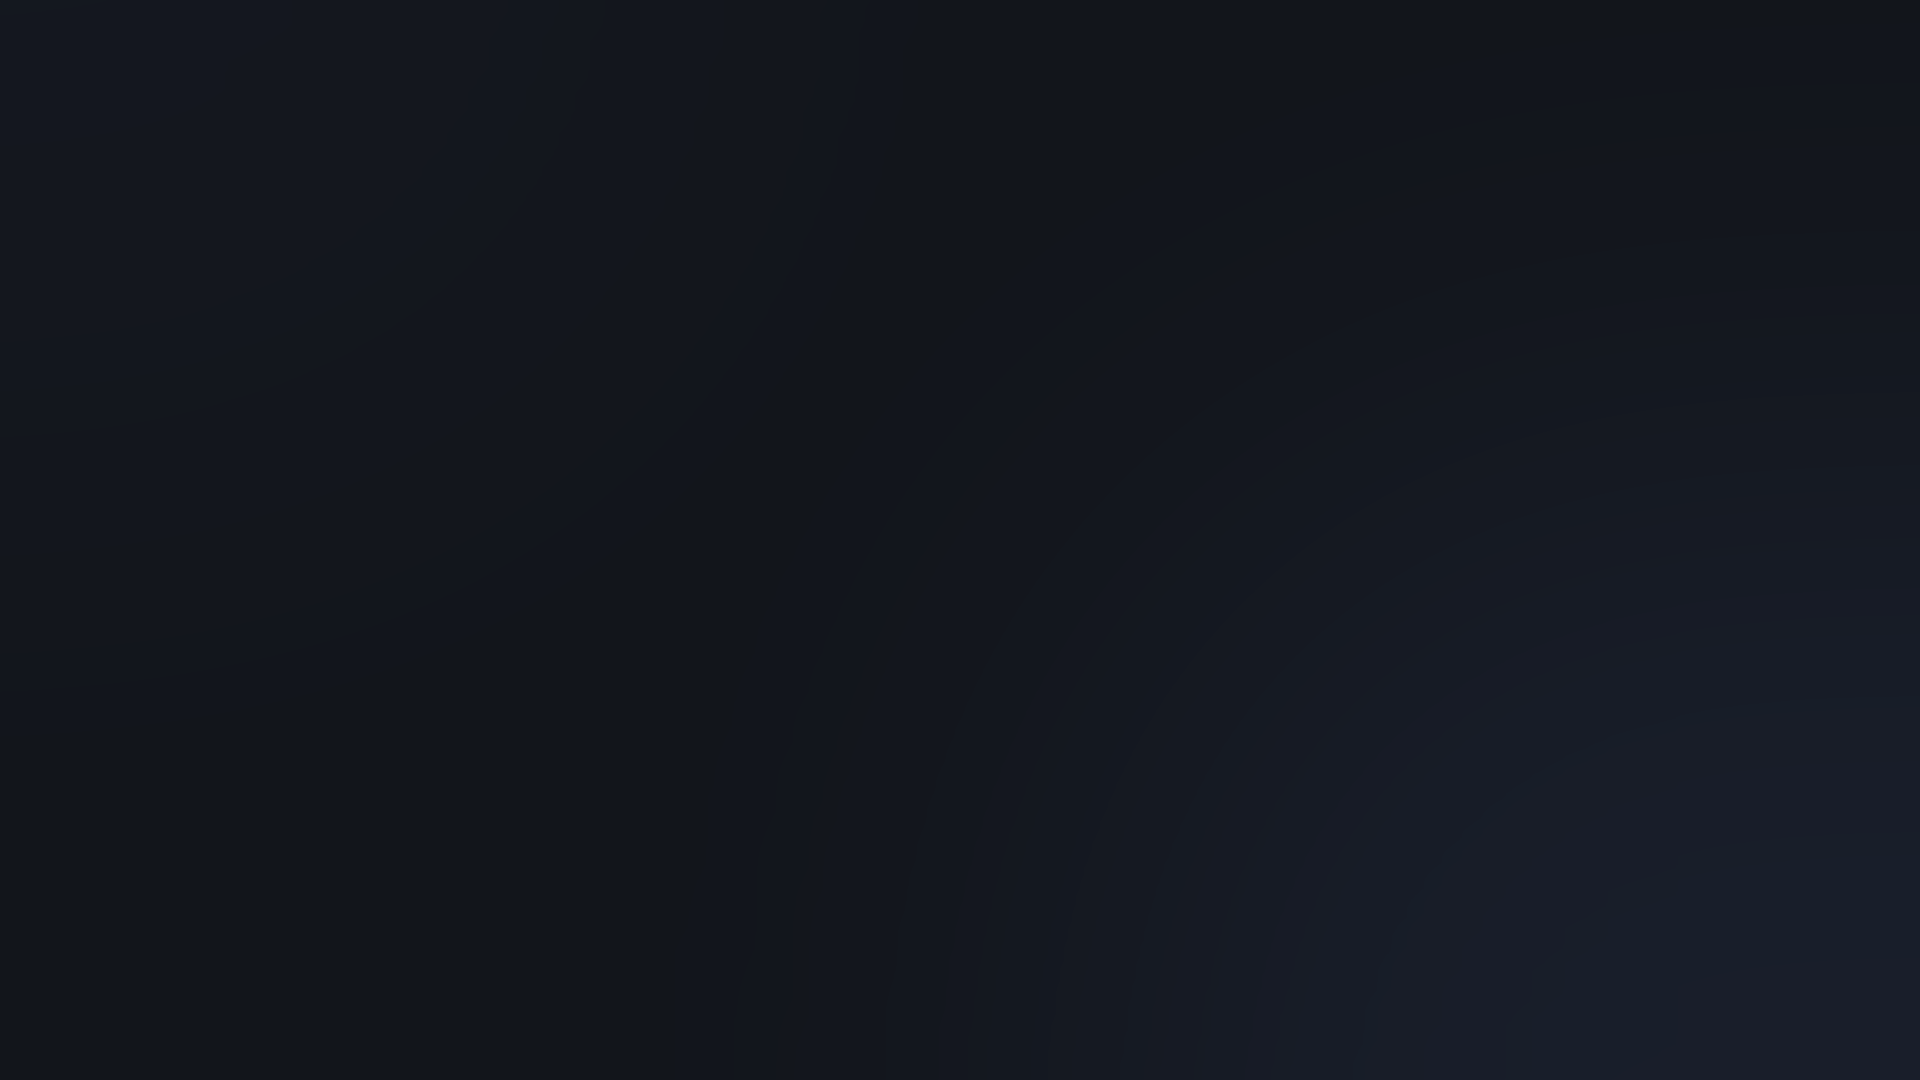
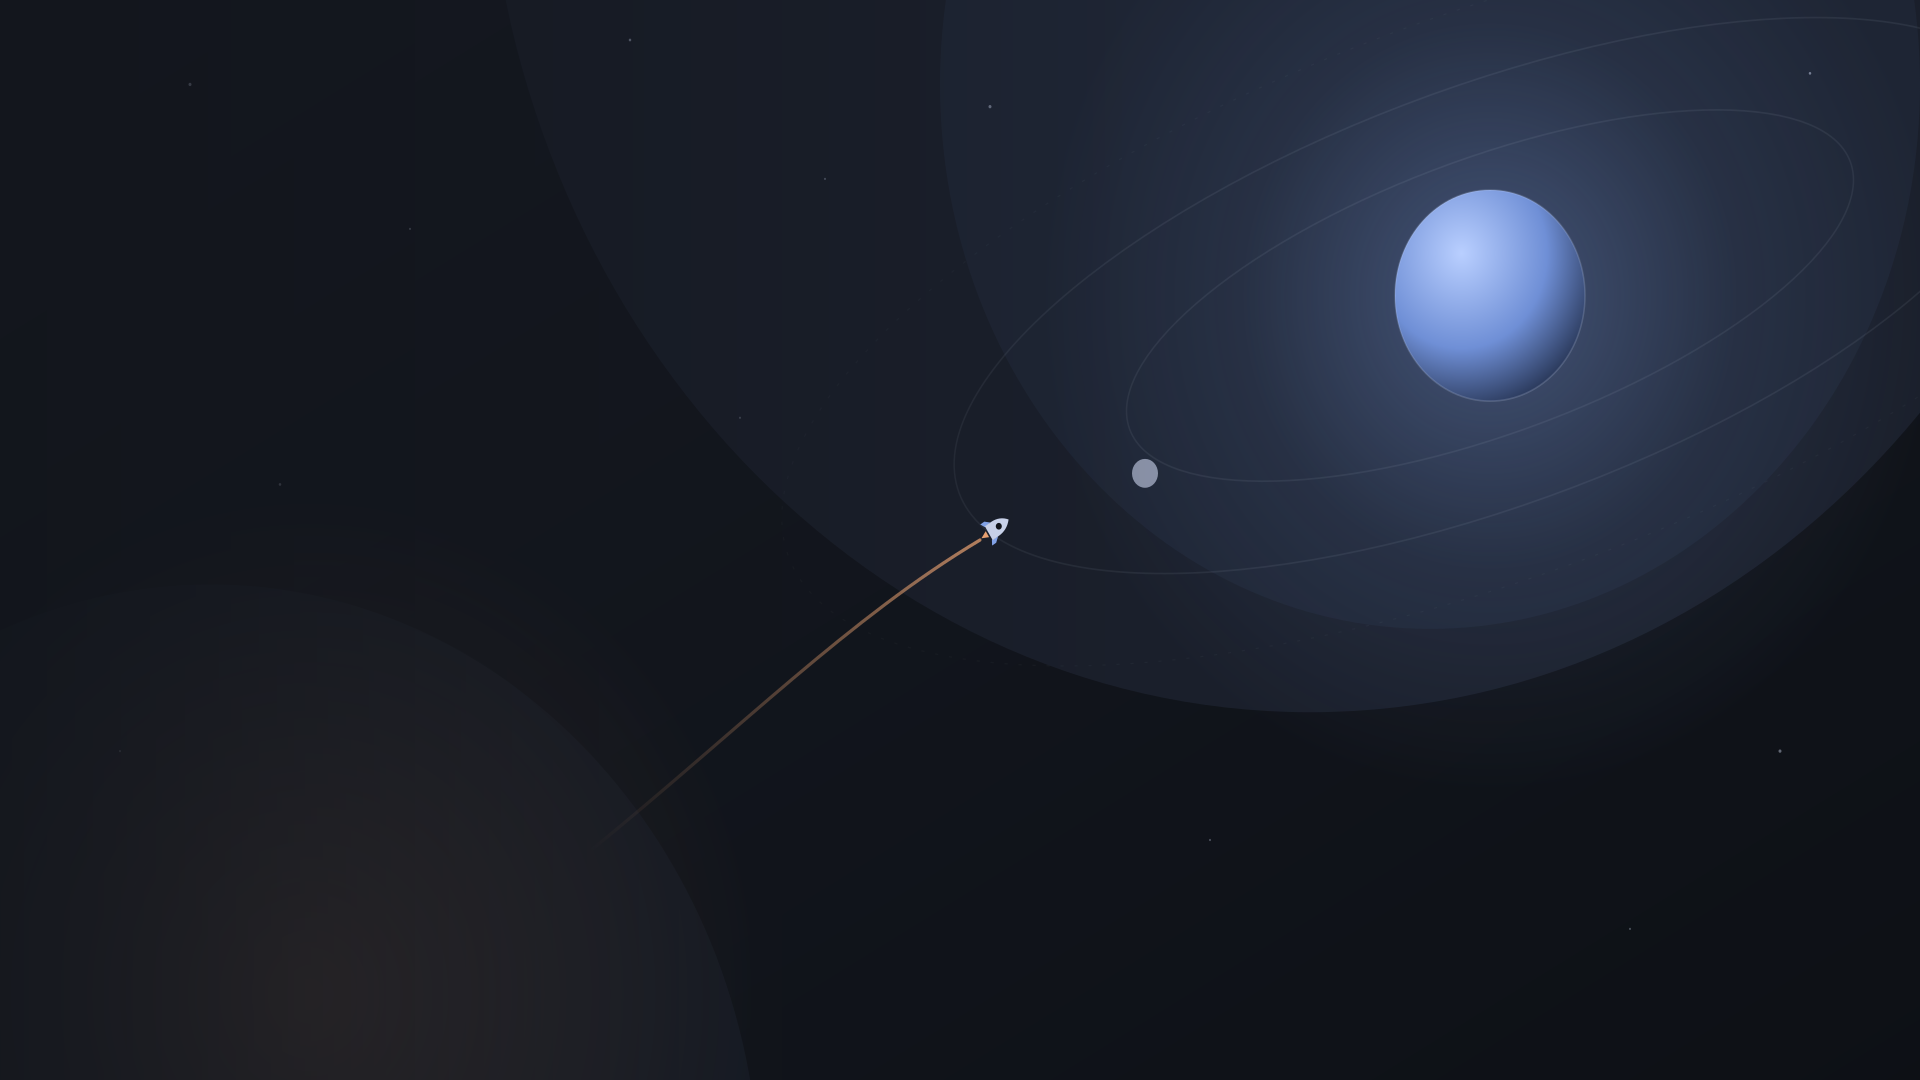
Installer wie der Desktop: Graphit-Hintergrundbild (Planet + Rakete) im Startmenü, hinter Übersicht und Fortschritt; Kacheln als Karten; Symbole sichtbar
Claude-Session: https://claude.ai/code/session_013GT3BPthZZrDzHkvyZsgTs

Changed region(s): [[0.5312, 0.0, 1.0, 0.5806], [0.5, 0.4583, 0.5312, 0.5194], [0.4688, 0.5194, 0.5, 0.55]]

diff --git a/image/netinstall/installer/anaconda-gtk.css b/image/netinstall/installer/anaconda-gtk.css
@@ -157,3 +157,29 @@ infobar.info label, infobar.warning label, infobar.question label, infobar.error
 
 /* Passwort-Stärke */
 levelbar.discrete trough block.filled.high, levelbar.discrete trough block.filled.full { background: #6fdcc0; border-color: #6fdcc0; }
+
+/* ---- Wie der Desktop: Hintergrundbild hinter Übersicht und Fortschritt ---- */
+AnacondaBaseStandalone box.background {
+    background-color: @creative_ground;
+    background-image: linear-gradient(rgba(18, 21, 27, 0.45), rgba(18, 21, 27, 0.45)),
+                      url('/usr/share/anaconda/pixmaps/creative-wallpaper.png');
+    background-size: cover;
+    background-position: center;
+}
+AnacondaBaseStandalone notebook, AnacondaBaseStandalone notebook > stack,
+AnacondaBaseStandalone scrolledwindow, AnacondaBaseStandalone viewport {
+    background-color: transparent;
+    background-image: none;
+    border: none;
+}
+/* Kacheln der Übersicht als Graphit-Karten */
+AnacondaSpokeSelector {
+    background-color: rgba(35, 40, 54, 0.88);
+    border: 1px solid rgba(255, 255, 255, 0.07);
+    border-radius: 12px;
+    padding: 4px;
+}
+AnacondaSpokeSelector:hover { background-color: rgba(48, 55, 74, 0.92); }
+AnacondaSpokeSelector image { color: @creative_accent; }
+#anaconda-spoke-selector-status { color: rgba(220, 230, 255, 0.6); }
+AnacondaBaseStandalone label { text-shadow: 0 1px 2px rgba(0, 0, 0, 0.5); }
